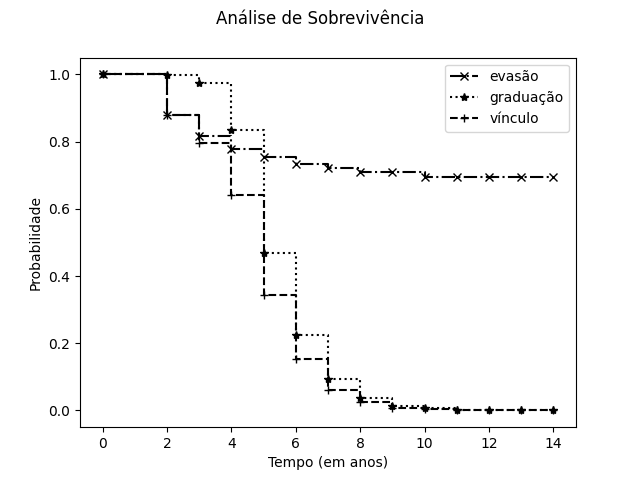
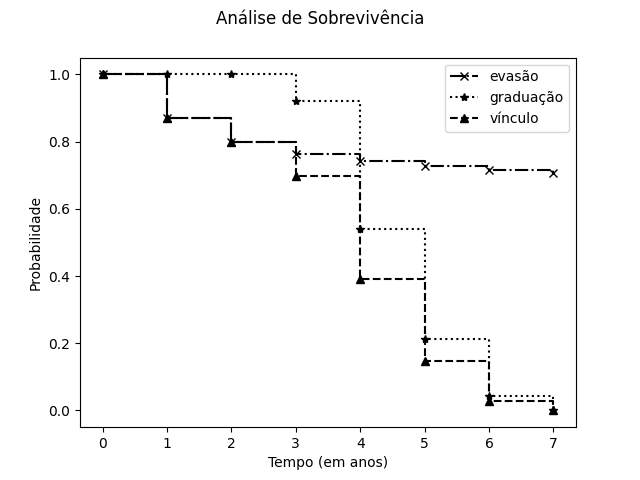
Alteração modelo do artigo e manipulando dados

diff --git a/generate_mc.py b/generate_mc.py
@@ -5,16 +5,16 @@ from markov_diagram import Diagram
 from pydtmc import MarkovChain, plot_graph, plot_walk
 
 # Alterar aqui parametros para gerar matriz
-nomeArquivo = "matrix/matrixRetencaoMenos60.csv"
-taxaRetencao = 0.4
+nomeArquivo = "matrix/matrixBoumiAlterado.csv"
+taxaRetencao = 1.0
 taxaEvasao = 1.0
 taxaEvasaoA1 = 1.0
 taxaEvasaoA2 = 1.0
 taxaTrancar = 1.0
 taxaEvasaoR = 1.0
 taxaTrancarR = 1.0
-taxaProporcaoEvasao = 1.5
-taxaProporcaoTrancar = 1.25
+taxaProporcaoEvasao = 1.0
+# taxaProporcaoTrancar = 1.25
 
 
 # T - representado por self loop
@@ -87,23 +87,23 @@ progres = [A1toA2, A2toA3, A3toA4, A4toA5, A5toG, A1RtoA2R, A2RtoA3R, A3RtoA4R, 
 ret = [A1toA1R, A2toA2R, A3toA3R, A4toA4R, A5toA5R]
 # tranc = [A1toT, A2toT, A3toT, A4toT, A5toT, A1RtoT, A2RtoT, A3RtoT, A4RtoT, A5RtoT]
 
-states = ['A1', 'A2', 'A3', 'A4', 'A5', 'A1R', 'A2R', 'A3R', 'A4R', 'A5R', 'A6R', 'A7R', 'G', 'E']
-state = np.array([[1, 0, 0, 0, 0, 0, 0, 0, 0, 0, 0, 0, 0, 0]])
-# Sem tracamento
-p = [[0.0, A1toA2, 0.0, 0.0, 0.0, A1toA1R, 0.0, 0.0, 0.0, 0.0, 0.0, 0.0, 0.0, A1toE],
-     [0.0, 0.0, A2toA3, 0.0, 0.0, 0.0, A2toA2R, 0.0, 0.0, 0.0, 0.0, 0.0, 0.0, A2toE],
-     [0.0, 0.0, 0.0, A3toA4, 0.0, 0.0, 0.0, A3toA3R, 0.0, 0.0, 0.0, 0.0, 0.0, A3toE],
-     [0.0, 0.0, 0.0, 0.0, A4toA5, 0.0, 0.0, 0.0, A4toA4R, 0.0, 0.0, 0.0, 0.0, A4toE],
-     [0.0, 0.0, 0.0, 0.0, 0.0, 0.0, 0.0, 0.0, 0.0, A5toA5R, 0.0, 0.0, A5toG, A5toE],
-     [0.0, 0.0, 0.0, 0.0, 0.0, 0.0, A1RtoA2R, 0.0, 0.0, 0.0, 0.0, 0.0, 0.0, A1RtoE],
-     [0.0, 0.0, 0.0, 0.0, 0.0, 0.0, 0.0, A2RtoA3R, 0.0, 0.0, 0.0, 0.0, 0.0, A2RtoE],
-     [0.0, 0.0, 0.0, 0.0, 0.0, 0.0, 0.0, 0.0, A3RtoA4R, 0.0, 0.0, 0.0, 0.0, A3RtoE],
-     [0.0, 0.0, 0.0, 0.0, 0.0, 0.0, 0.0, 0.0, 0.0, A4RtoA5R, 0.0, 0.0, 0.0, A4RtoE],
-     [0.0, 0.0, 0.0, 0.0, 0.0, 0.0, 0.0, 0.0, 0.0, 0.0, A5RtoA6R, 0.0, A5RtoG, A5RtoE],
-     [0.0, 0.0, 0.0, 0.0, 0.0, 0.0, 0.0, 0.0, 0.0, 0.0, 0.0, A6RtoA7R, A6RtoG, A6RtoE],
-     [0.0, 0.0, 0.0, 0.0, 0.0, 0.0, 0.0, 0.0, 0.0, 0.0, 0.0, 0.0, A7RtoG, A7RtoE],
-     [0.0, 0.0, 0.0, 0.0, 0.0, 0.0, 0.0, 0.0, 0.0, 0.0, 0.0, 0.0, 1.0, 0.0],
-     [0.0, 0.0, 0.0, 0.0, 0.0, 0.0, 0.0, 0.0, 0.0, 0.0, 0.0, 0.0, 0.0, 1.0]]
+# states = ['A1', 'A2', 'A3', 'A4', 'A5', 'A1R', 'A2R', 'A3R', 'A4R', 'A5R', 'A6R', 'A7R', 'G', 'E']
+# state = np.array([[1, 0, 0, 0, 0, 0, 0, 0, 0, 0, 0, 0, 0, 0]])
+# # Sem tracamento
+# p = [[0.0, A1toA2, 0.0, 0.0, 0.0, A1toA1R, 0.0, 0.0, 0.0, 0.0, 0.0, 0.0, 0.0, A1toE],
+#      [0.0, 0.0, A2toA3, 0.0, 0.0, 0.0, A2toA2R, 0.0, 0.0, 0.0, 0.0, 0.0, 0.0, A2toE],
+#      [0.0, 0.0, 0.0, A3toA4, 0.0, 0.0, 0.0, A3toA3R, 0.0, 0.0, 0.0, 0.0, 0.0, A3toE],
+#      [0.0, 0.0, 0.0, 0.0, A4toA5, 0.0, 0.0, 0.0, A4toA4R, 0.0, 0.0, 0.0, 0.0, A4toE],
+#      [0.0, 0.0, 0.0, 0.0, 0.0, 0.0, 0.0, 0.0, 0.0, A5toA5R, 0.0, 0.0, A5toG, A5toE],
+#      [0.0, 0.0, 0.0, 0.0, 0.0, 0.0, A1RtoA2R, 0.0, 0.0, 0.0, 0.0, 0.0, 0.0, A1RtoE],
+#      [0.0, 0.0, 0.0, 0.0, 0.0, 0.0, 0.0, A2RtoA3R, 0.0, 0.0, 0.0, 0.0, 0.0, A2RtoE],
+#      [0.0, 0.0, 0.0, 0.0, 0.0, 0.0, 0.0, 0.0, A3RtoA4R, 0.0, 0.0, 0.0, 0.0, A3RtoE],
+#      [0.0, 0.0, 0.0, 0.0, 0.0, 0.0, 0.0, 0.0, 0.0, A4RtoA5R, 0.0, 0.0, 0.0, A4RtoE],
+#      [0.0, 0.0, 0.0, 0.0, 0.0, 0.0, 0.0, 0.0, 0.0, 0.0, A5RtoA6R, 0.0, A5RtoG, A5RtoE],
+#      [0.0, 0.0, 0.0, 0.0, 0.0, 0.0, 0.0, 0.0, 0.0, 0.0, 0.0, A6RtoA7R, A6RtoG, A6RtoE],
+#      [0.0, 0.0, 0.0, 0.0, 0.0, 0.0, 0.0, 0.0, 0.0, 0.0, 0.0, 0.0, A7RtoG, A7RtoE],
+#      [0.0, 0.0, 0.0, 0.0, 0.0, 0.0, 0.0, 0.0, 0.0, 0.0, 0.0, 0.0, 1.0, 0.0],
+#      [0.0, 0.0, 0.0, 0.0, 0.0, 0.0, 0.0, 0.0, 0.0, 0.0, 0.0, 0.0, 0.0, 1.0]]
 
 # Com trancamento
 # p = [[A1T, A1toA2, 0.0, 0.0, 0.0, A1toA1R, 0.0, 0.0, 0.0, 0.0, 0.0, 0.0, 0.0, A1toE],
@@ -165,15 +165,14 @@ p = [[0.0, A1toA2, 0.0, 0.0, 0.0, A1toA1R, 0.0, 0.0, 0.0, 0.0, 0.0, 0.0, 0.0, A1
 
 # Boumi
 # Chance de graduar 68,12%
-# states = ['Inicio', 'A1', 'A2', 'A3', 'A4', 'G', 'E']
-# state = np.array([[1, 0, 0, 0, 0, 0, 0]])
-# p = [[0.0, 0.89, 0.09, 0.02, 0.0, 0.0, 0.0],
-#      [0.0, 0.17, 0.64, 0.06, 0.0, 0.0, 0.13],
-#      [0.0, 0.0, 0.1, 0.75, 0.08, 0.0, 0.07],
-#      [0.0, 0.0, 0.0, 0.08, 0.84, 0.04, 0.04],
-#      [0.0, 0.0, 0.0, 0.0, 0.37, 0.61, 0.02],
-#      [0.0, 0.0, 0.0, 0.0, 0.0, 1.0, 0.0],
-#      [0.0, 0.0, 0.0, 0.0, 0.0, 0.0, 1.0]]
+# states = ['A1', 'A2', 'A3', 'A4', 'G', 'E']
+# state = np.array([[1, 0, 0, 0, 0, 0]])
+# p = [[0.17, 0.64, 0.06, 0.0, 0.0, 0.13],
+#      [0.0, 0.1, 0.75, 0.08, 0.0, 0.07],
+#      [0.0, 0.0, 0.08, 0.84, 0.04, 0.04],
+#      [0.0, 0.0, 0.0, 0.37, 0.61, 0.02],
+#      [0.0, 0.0, 0.0, 0.0, 1.0, 0.0],
+#      [0.0, 0.0, 0.0, 0.0, 0.0, 1.0]]
 
 
 # Reter
@@ -209,21 +208,21 @@ A4RtoG = 1 - A4RtoA5R - A4RtoE
 A5RtoG = 1 - A5RtoA6R - A5RtoE
 A6RtoG = 1 - A6RtoE
 
-# states = ['A1', 'A2', 'A3', 'A4', 'A1R', 'A2R', 'A3R', 'A4R', 'A5R', 'A6R', 'G', 'E']
-# state = np.array([[1, 0, 0, 0, 0, 0, 0, 0, 0, 0, 0, 0]])
-#
-# p = [[0.0, A1toA2, 0.06, 0.0, A1toA1R, 0.0, 0.0, 0.0, 0.0, 0.0, 0.0, A1toE],
-#      [0.0, 0.0, A2toA3, 0.08, 0.0, A2toA2R, 0.0, 0.0, 0.0, 0.0, 0.0, A2toE],
-#      [0.0, 0.0, 0.0, A3toA4, 0.0, 0.0, A3toA3R, 0.0, 0.0, 0.0, 0.0, A3toE],
-#      [0.0, 0.0, 0.0, 0.0, 0.0, 0.0, 0.0, A4toA4R, 0.0, 0.0, A4toG, A4toE],
-#      [0.0, 0.0, 0.0, 0.0, 0.0, A1RtoA2R, 0.0, 0.0, 0.0, 0.0, 0.0, A1RtoE],
-#      [0.0, 0.0, 0.0, 0.0, 0.0, 0.0, A2RtoA3R, 0.0, 0.0, 0.0, 0.0, A2RtoE],
-#      [0.0, 0.0, 0.0, 0.0, 0.0, 0.0, 0.0, A3RtoA4R, 0.0, 0.0, 0.0, A3RtoE],
-#      [0.0, 0.0, 0.0, 0.0, 0.0, 0.0, 0.0, 0.0, A4RtoA5R, 0.0, A4RtoG, A4RtoE],
-#      [0.0, 0.0, 0.0, 0.0, 0.0, 0.0, 0.0, 0.0, 0.0, A5RtoA6R, A5RtoG, A5RtoE],
-#      [0.0, 0.0, 0.0, 0.0, 0.0, 0.0, 0.0, 0.0, 0.0, 0.0, A6RtoG, A6RtoE],
-#      [0.0, 0.0, 0.0, 0.0, 0.0, 0.0, 0.0, 0.0, 0.0, 0.0, 1.0, 0.0],
-#      [0.0, 0.0, 0.0, 0.0, 0.0, 0.0, 0.0, 0.0, 0.0, 0.0, 0.0, 1.0]]
+states = ['A1', 'A2', 'A3', 'A4', 'A1R', 'A2R', 'A3R', 'A4R', 'A5R', 'A6R', 'G', 'E']
+state = np.array([[1, 0, 0, 0, 0, 0, 0, 0, 0, 0, 0, 0]])
+
+p = [[0.0, A1toA2, 0.06, 0.0, A1toA1R, 0.0, 0.0, 0.0, 0.0, 0.0, 0.0, A1toE],
+     [0.0, 0.0, A2toA3, 0.08, 0.0, A2toA2R, 0.0, 0.0, 0.0, 0.0, 0.0, A2toE],
+     [0.0, 0.0, 0.0, A3toA4, 0.0, 0.0, A3toA3R, 0.0, 0.0, 0.0, 0.0, A3toE],
+     [0.0, 0.0, 0.0, 0.0, 0.0, 0.0, 0.0, A4toA4R, 0.0, 0.0, A4toG, A4toE],
+     [0.0, 0.0, 0.0, 0.0, 0.0, A1RtoA2R, 0.0, 0.0, 0.0, 0.0, 0.0, A1RtoE],
+     [0.0, 0.0, 0.0, 0.0, 0.0, 0.0, A2RtoA3R, 0.0, 0.0, 0.0, 0.0, A2RtoE],
+     [0.0, 0.0, 0.0, 0.0, 0.0, 0.0, 0.0, A3RtoA4R, 0.0, 0.0, 0.0, A3RtoE],
+     [0.0, 0.0, 0.0, 0.0, 0.0, 0.0, 0.0, 0.0, A4RtoA5R, 0.0, A4RtoG, A4RtoE],
+     [0.0, 0.0, 0.0, 0.0, 0.0, 0.0, 0.0, 0.0, 0.0, A5RtoA6R, A5RtoG, A5RtoE],
+     [0.0, 0.0, 0.0, 0.0, 0.0, 0.0, 0.0, 0.0, 0.0, 0.0, A6RtoG, A6RtoE],
+     [0.0, 0.0, 0.0, 0.0, 0.0, 0.0, 0.0, 0.0, 0.0, 0.0, 1.0, 0.0],
+     [0.0, 0.0, 0.0, 0.0, 0.0, 0.0, 0.0, 0.0, 0.0, 0.0, 0.0, 1.0]]
 
 
 # Gerar csv com matriz de transicao e desenho da cadeia de markov
@@ -249,6 +248,8 @@ def transition_matrix(transitions):
 
     for (i, j) in zip(transitions, transitions[1:]):
         M[i][j] += 1
+
+    print(M)
 
     #now convert to probabilities:
     for row in M:

diff --git a/simulation.py b/simulation.py
@@ -10,7 +10,7 @@ def sobrevivencia(time, event_observed, label, title):
 
     color = ["red", "green", "blue"]
     linestyles = ['-.', ':', '--', '-']
-    markers = ['x', '*', '+', 'o']
+    markers = ['x', '*', '^', 'o']
 
     for i in range(len(time)):
         kmf.fit(time[i], event_observed[i], label=label[i])
@@ -111,6 +111,7 @@ def Simu(quantAlunos, matriz):
     # prob_and_temp("Trancado", t, tempo_ate_trancado, quantAlunos)
     prob_and_temp("Evadido", e, tempo_ate_evadido, quantAlunos)
     prob_and_temp("Graduado", g, tempo_ate_graduado, quantAlunos)
+    prob_and_temp("Vínculo", g+e, tempo_ate_graduado+tempo_ate_evadido, quantAlunos)
 
     return time, event, event_evadido, event_graduado
 
@@ -211,19 +212,21 @@ quantAlunos = 10000
 
 # Simulação Boumi
 time, event, event_evadido, event_graduado = Simu(quantAlunos, 'matrix/matrixBoumi.csv')
-# timeA, eventA, event_evadidoA, event_graduadoA = Simu(quantAlunos, 'matrix/matrixBoumiAlterado.csv')
-#
-# times = [time, timeA]
-# events = [event, eventA]
-# labels = ["Original", "Adaptado"]
-#
-# sobrevivencia(times, events, labels, "Análise de Sobrevivência")
-#
-# results = logrank_test(time, timeA, event, eventA)
-# results.print_summary()
-# print(results.p_value)
-
 sobrevivencia([time, time, time], [event_evadido, event_graduado, event], ['evasão', 'graduação', 'vínculo'], "Análise de Sobrevivência")
+
+timeA, eventA, event_evadidoA, event_graduadoA = Simu(quantAlunos, 'matrix/matrixBoumiAlterado.csv')
+sobrevivencia([timeA, timeA, timeA], [event_evadidoA, event_graduadoA, eventA], ['evasão', 'graduação', 'vínculo'], "Análise de Sobrevivência")
+
+times = [time, timeA]
+events = [event, eventA]
+labels = ["Versão do Artigo Original", "Versão com Retenção"]
+
+sobrevivencia(times, events, labels, "Análise de Sobrevivência do Vínculo")
+
+results = logrank_test(time, timeA, event_evadido, event_evadidoA)
+results.print_summary()
+print(results.p_value)
+
 
 # Simulação Geral
 # time, event, event_evadido, event_graduado = Simu(quantAlunos, 'matrix/matrixPadrao.csv')

diff --git a/generate_probabilities.py b/generate_probabilities.py
@@ -1,0 +1,69 @@
+import pandas as pd
+import numpy as np
+
+
+df = pd.read_csv("docs/df_survivability_bsi-bcc.csv")
+
+# alterar csv de período para ano
+df_ano = df[df['NM_SEXO'] == 'F']
+df_ano.to_csv("docs/df_survivability_bsi-bcc-ano.csv")
+
+
+
+df_todos = df.groupby(['DURACAO_VINCULO', 'STATUS'])['QTD'].sum()
+df_test = df.groupby(['DURACAO_VINCULO'])['QTD'].sum()
+
+df_todos.to_csv("docs/df_survivability_bsi-bcc_todos.csv")
+
+
+
+
+
+#categorias
+
+
+# df_sexo_f = df_ano[df_ano['NM_SEXO'] == 'F']
+# df_sexo_m = df_ano[df_ano['NM_SEXO'] == 'M']
+#
+#
+# df_esclr_pais_não_analfabetos = df_ano[df_ano['NM_ESCLR_MAE'] != 'ANALFABETO']
+# df_esclr_pais_analfabetos = df_ano[df_ano['NM_ESCLR_MAE'] == 'ANALFABETO']
+
+
+
+
+
+
+
+
+
+
+
+# Cria matriz de transição passando um array com os estados transicionando
+def transition_matrix(transitions):
+    n = 1 + max(transitions) #number of states
+
+    M = [[0]*n for _ in range(n)]
+
+    for (i, j) in zip(transitions, transitions[1:]):
+        M[i][j] += 1
+
+    print(M)
+
+    #now convert to probabilities:
+    for row in M:
+        s = sum(row)
+        if s > 0:
+            row[:] = [f/s for f in row]
+    return M
+
+
+
+# estados transicionando
+# t = [1,1,2,6,8,5,5,7,8,8,1,1,4,5,5,0,0,0,1,1,4,4,5,1,3,3,4,5,4,1,1]
+# states = np.unique(t)
+# p = transition_matrix(t)
+# print(p)
+
+
+
